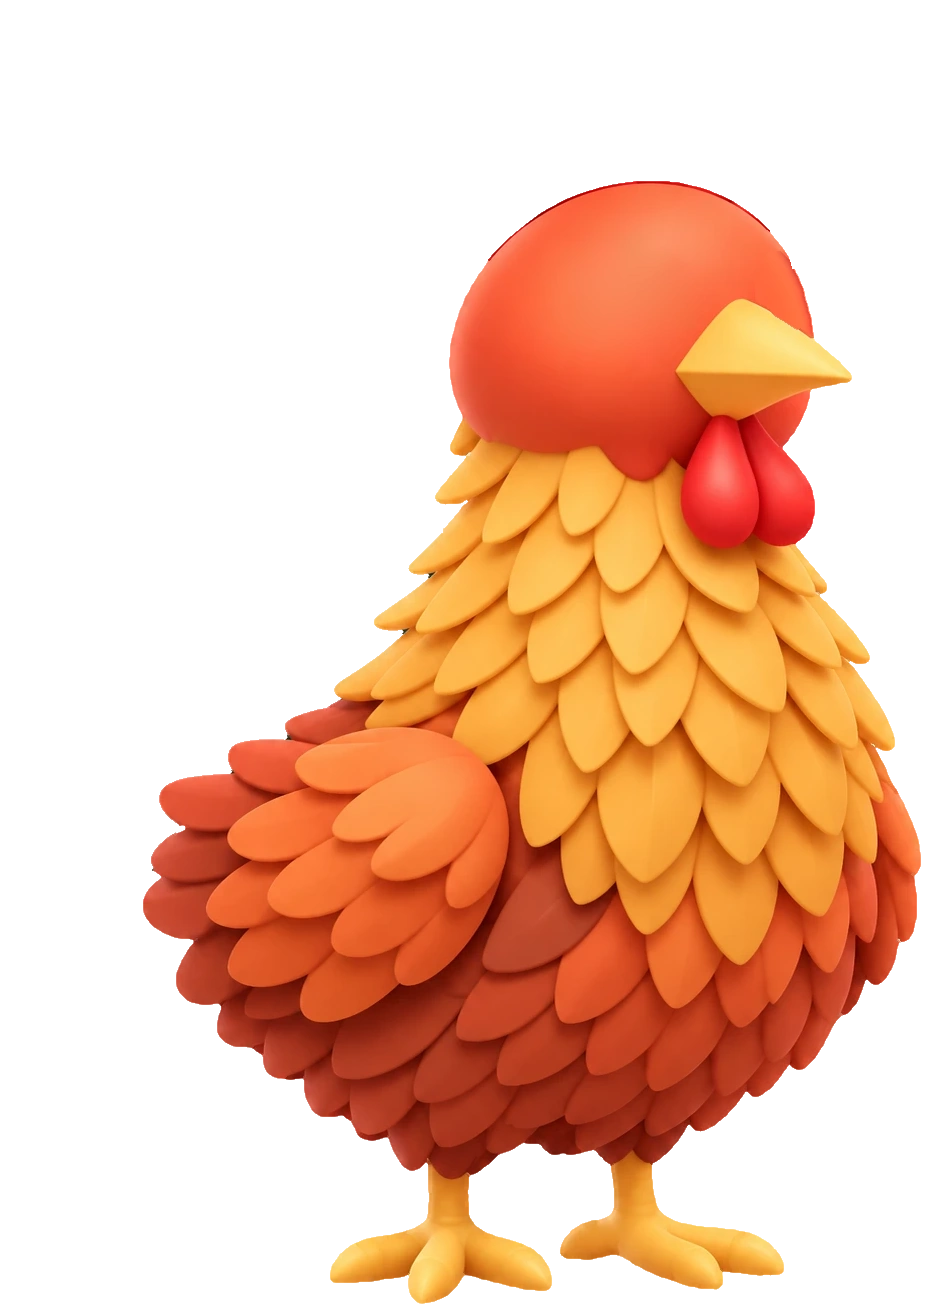
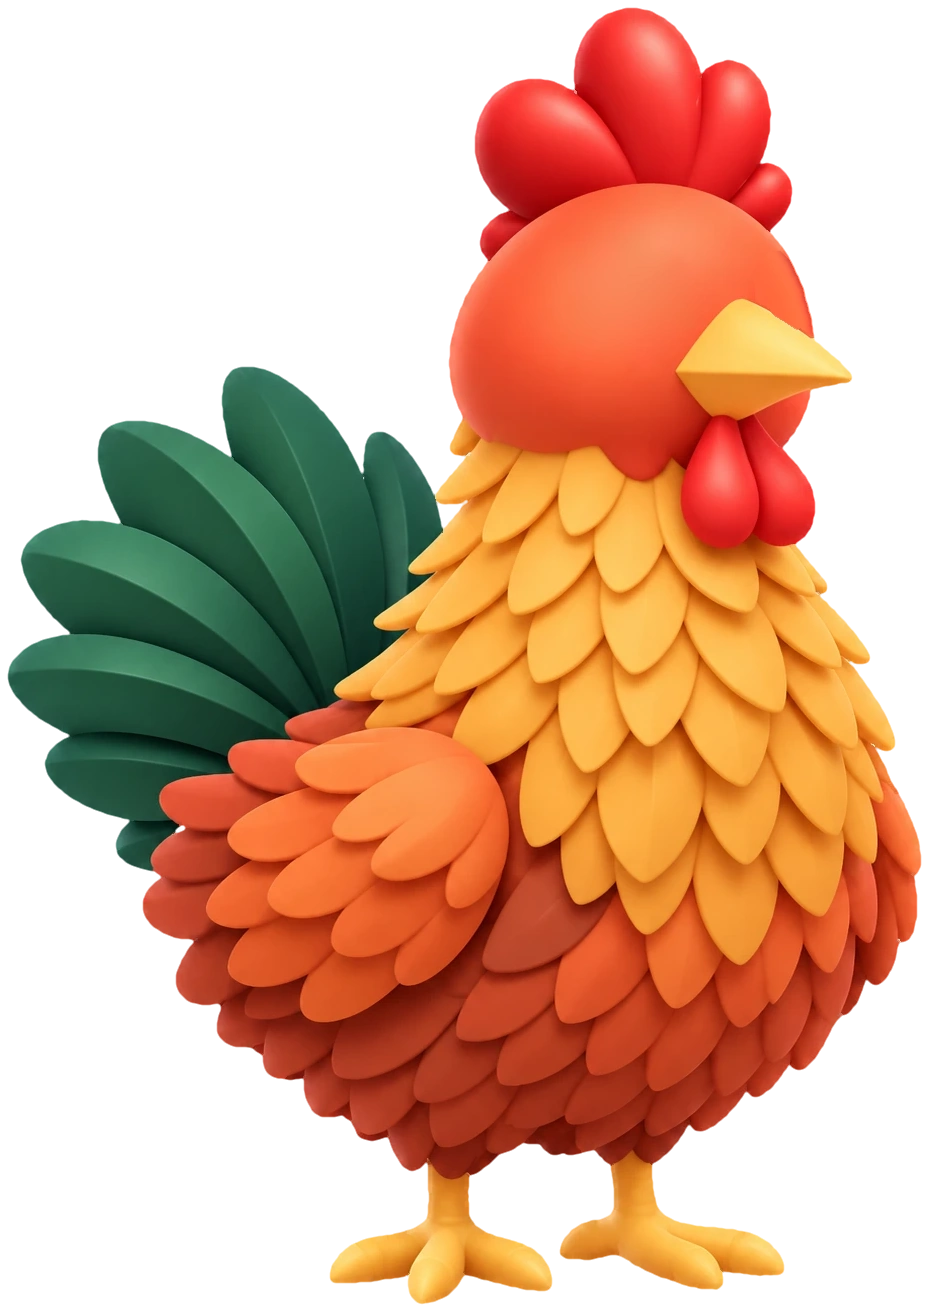
Maskot ayam: ekor dan jengger menyatu dengan badan (piksel asli), buang lapisan terpisah
Pemisahan ekor dan jengger menimbulkan tepi yang terkikis dan celah saat bergoyang.
Sekarang badan, ekor, dan jengger satu gambar utuh yang identik dengan gambar asli;
yang bergerak hanya mata, kelopak, badan (napas dan condong), bayangan, dan lompat.

Changed region(s): [[0.0, 0.2746, 0.5, 0.6712], [0.5, 0.0, 0.875, 0.2136]]

diff --git a/resources/js/ayam2d.js b/resources/js/ayam2d.js
@@ -1,13 +1,13 @@
 /*
  * Maskot ayam untuk halaman masuk.
- * Gambar ayam dipecah menjadi beberapa bagian: badan utuh (termasuk kepala, tanpa mata), ekor, jengger, dan mata.
- * Kepala tidak digeser terpisah supaya tidak ada tepi ganda. Yang bergerak: mata asli di dalam wajah, ekor dan jengger
- * pada pangkalnya (dengan pegas, jadi mengayun dan mereda alami), serta badan yang condong ke arah kursor dengan kaki
- * sebagai tumpuan. Semua memakai transformasi 2D supaya gambar tetap tajam. Tanpa WebGL dan langsung tampil.
+ * Badan, kepala, ekor, dan jengger adalah satu gambar utuh (piksel asli, tanpa sambungan yang bisa terlihat). Hanya mata
+ * yang dipisah: bola mata asli bergerak di dalam wajah, dan kelopak berupa kulit kepala yang turun menutupinya. Badan
+ * bernapas dan condong ke arah kursor dengan kaki sebagai tumpuan. Semua memakai transformasi 2D supaya gambar tetap
+ * tajam. Tanpa WebGL dan langsung tampil.
  *
  *  - Mata mengikuti kursor; bila kursor diam, melirik sendiri. Berkedip (kadang dua kali).
  *  - Mengisi email: menoleh ke kartu masuk. Mengisi kata sandi: memejam dan membuang muka.
- *  - Dicolek: melompat dengan gepeng-lonjong, ekor dan jengger bergoyang.
+ *  - Dicolek: melompat dengan gepeng-lonjong.
  */
 const klem = (v, a, b) => Math.min(b, Math.max(a, v));
 const lerp = (a, b, k) => a + (b - a) * k;
@@ -64,9 +64,6 @@ export function mulaiAyam2d(wadah, { gerakMinimal = false } = {}) {
         badan: 0,              // condong badan (-1..1), lebih lambat dari mata
         tutup: 0,
         kedipMulai: -1, kedipBerikut: 2.4, kedipLagi: false,
-        ekor: 0, ekorV: 0,     // pegas ekor
-        jg: 0, jgV: 0,         // pegas jengger
-        badanLalu: 0,
         tLalu: null,
     };
 
@@ -101,8 +98,6 @@ export function mulaiAyam2d(wadah, { gerakMinimal = false } = {}) {
         kini.x = lerp(kini.x, tx, ke);
         kini.y = lerp(kini.y, ty, ke);
         kini.badan = lerp(kini.badan, tx, kb);
-        const lajuBadan = (kini.badan - kini.badanLalu) / dt;
-        kini.badanLalu = kini.badan;
 
         // berkedip (kadang dua kali berturut-turut), atau memejam saat mengisi kata sandi
         let kedip = 1;
@@ -132,7 +127,6 @@ export function mulaiAyam2d(wadah, { gerakMinimal = false } = {}) {
         let y = 0;
         let sy = 1;
         let sx = 1;
-        let tendang = 0;
         if (aksi.lompat >= 0) {
             const p = (t - aksi.lompat) / 0.8;
             if (p >= 1) {
@@ -142,30 +136,11 @@ export function mulaiAyam2d(wadah, { gerakMinimal = false } = {}) {
                 const gep = p < 0.14 ? -Math.sin((p / 0.14) * Math.PI / 2) * 0.1 : p > 0.86 ? -Math.sin(((1 - p) / 0.14) * Math.PI / 2) * 0.09 : Math.sin(p * Math.PI) * 0.06;
                 sy = 1 + gep;
                 sx = 1 - gep * 0.6;
-                tendang = p < 0.14 ? 1 : p > 0.86 ? -1 : 0;
             }
         }
-        const sejakColek = t - aksi.lompat;
-
-        // ekor dan jengger: pegas teredam yang digerakkan goyang halus, laju condong badan, dan colekan
-        if (!gerakMinimal) {
-            const gEkor = Math.sin(t * 1.4) * 1.5 + Math.sin(t * 0.55) * 0.7 - lajuBadan * 1.2 + (sejakColek < 1.6 ? Math.sin(sejakColek * 15) * 4.5 * Math.exp(-sejakColek * 2.4) : 0);
-            kini.ekorV += (-(kini.ekor - gEkor) * 70 - kini.ekorV * 7) * dt;
-            kini.ekor += kini.ekorV * dt;
-
-            const gJg = Math.sin(t * 1.9 + 1) * 0.5 + lajuBadan * 1.6 + tendang * 2.2 + (sejakColek < 1.6 ? Math.sin(sejakColek * 13 + 1) * 2.2 * Math.exp(-sejakColek * 3) : 0);
-            kini.jgV += (-(kini.jg - gJg) * 110 - kini.jgV * 9) * dt;
-            kini.jg += kini.jgV * dt;
-        } else {
-            kini.ekor = 0;
-            kini.jg = 0;
-        }
-
         const set = (n, v) => adegan.style.setProperty(n, v);
         set('--rz', `${(kini.badan * 1.7 + (gerakMinimal ? 0 : Math.sin(t * 0.8) * 0.6)).toFixed(3)}deg`);
         set('--sk', `${(-kini.badan * 0.8).toFixed(3)}deg`);
-        set('--ek', `${klem(kini.ekor, -2.6, 2.6).toFixed(3)}deg`);
-        set('--jg', `${klem(kini.jg, -3, 3).toFixed(3)}deg`);
         set('--ex', (kini.x * 17).toFixed(2));
         set('--ey', (kini.y * 13).toFixed(2));
                 set('--lid', klem((1 - blink) / 0.96, 0, 1).toFixed(3));

diff --git a/resources/css/app.css b/resources/css/app.css
@@ -398,10 +398,6 @@ select:not([multiple]) {
 /* Seluruh badan bernapas sebagai satu kesatuan, jadi tidak ada sambungan yang terlihat. */
 .ayam-napas { position: absolute; inset: 0; display: block; transform-origin: 50% 100%; transform: scale(var(--nx, 1), var(--nap, 1)); }
 
-/* Ekor dan jengger dipisah dan berputar pada pangkalnya (di balik badan). */
-.ayam-ekor { position: absolute; inset: 0; display: block; transform-origin: 38.7% 53.3%; transform: rotate(var(--ek, 0deg)); }
-/* Jengger diturunkan sedikit supaya pangkalnya selalu tertutup kepala, dan berayun di titik tumpu dekat puncak kepala. */
-.ayam-jengger { position: absolute; inset: 0; display: block; translate: 0 1.1%; transform-origin: 62.4% 21%; transform: rotate(var(--jg, 0deg)); }
 
 /* Mata dipotong ke bentuk wajah, jadi tidak pernah keluar dari kepala. */
 .ayam-mata {

diff --git a/resources/views/components/guest-layout.blade.php b/resources/views/components/guest-layout.blade.php
@@ -32,15 +32,13 @@
                     @php
                         $ayam = fn (string $f) => asset('images/ayam/'.$f).'?v='.@filemtime(public_path('images/ayam/'.$f));
                     @endphp
-                    {{-- Maskot ayam: badan utuh, ekor dan jengger yang bergoyang, dan mata asli yang bergerak di dalam wajah. Matanya mengikuti kursor. --}}
+                    {{-- Maskot ayam: badan utuh (ekor dan jengger menyatu, piksel asli), dan mata asli yang bergerak di dalam wajah. Matanya mengikuti kursor. --}}
                     <div data-ayam class="absolute inset-x-0 bottom-[3%] top-[29%] [@media(max-height:600px)]:top-[34%]" style="opacity:0;transition:opacity .8s">
                         <button type="button" data-colek aria-label="Colek ayam" class="ayam-tombol">
                             <span class="ayam-lompat" data-lompat>
                                 <span class="ayam-bayang"></span>
                                 <span class="ayam-adegan" data-adegan2>
                                     <span class="ayam-napas">
-                                        <span class="ayam-ekor"><img class="ayam-lapis" src="{{ $ayam('ekor.webp') }}" alt="" draggable="false"></span>
-                                        <span class="ayam-jengger"><img class="ayam-lapis" src="{{ $ayam('jengger.webp') }}" alt="" draggable="false"></span>
                                         <img class="ayam-lapis" src="{{ $ayam('badan.webp') }}" alt="" draggable="false">
                                         <span class="ayam-mata" data-kepala style="-webkit-mask-image:url('{{ $ayam('kepala.webp') }}');mask-image:url('{{ $ayam('kepala.webp') }}')">
                                             <span class="ayam-oko" style="left:63.25%;top:19.37%;width:10.13%;height:7.17%">

diff --git a/tests/Feature/UiPutaran2Test.php b/tests/Feature/UiPutaran2Test.php
@@ -116,7 +116,7 @@ class UiPutaran2Test extends TestCase
     {
         $html = $this->get(route('login'))->assertOk()->getContent();
 
-        foreach (['class="latar"', 'data-hero', 'panel-gambar', 'statistik', 'kaca-form', 'Recording harian', 'Pantau kandang', 'Cocokkan RHPP', 'jujur', 'adil', 'Nitip, Openi, Adil', 'data-ayam', 'data-colek', 'images/ayam/badan.webp', 'images/ayam/ekor.webp', 'images/ayam/jengger.webp'] as $penanda) {
+        foreach (['class="latar"', 'data-hero', 'panel-gambar', 'statistik', 'kaca-form', 'Recording harian', 'Pantau kandang', 'Cocokkan RHPP', 'jujur', 'adil', 'Nitip, Openi, Adil', 'data-ayam', 'data-colek', 'images/ayam/badan.webp'] as $penanda) {
             $this->assertStringContainsString($penanda, $html, "Tidak ada: {$penanda}");
         }
         $this->assertStringContainsString('noa-mark.webp', $html);
